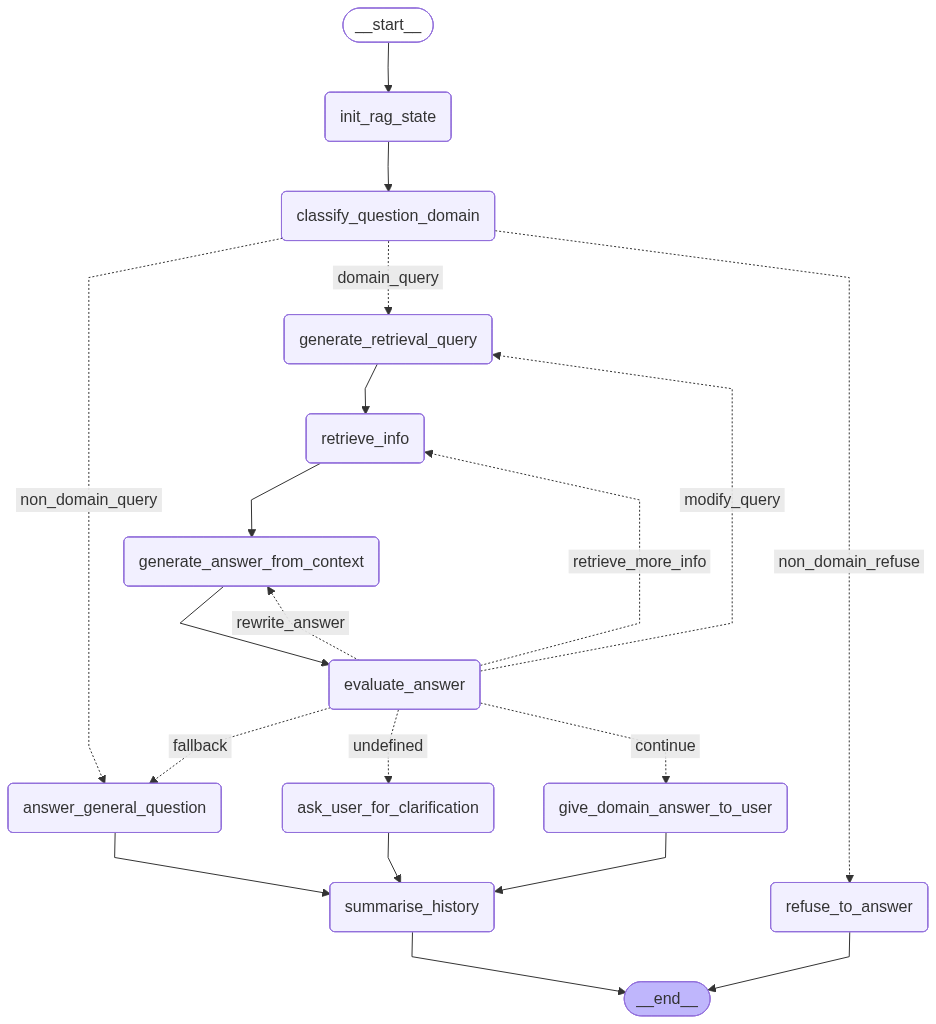
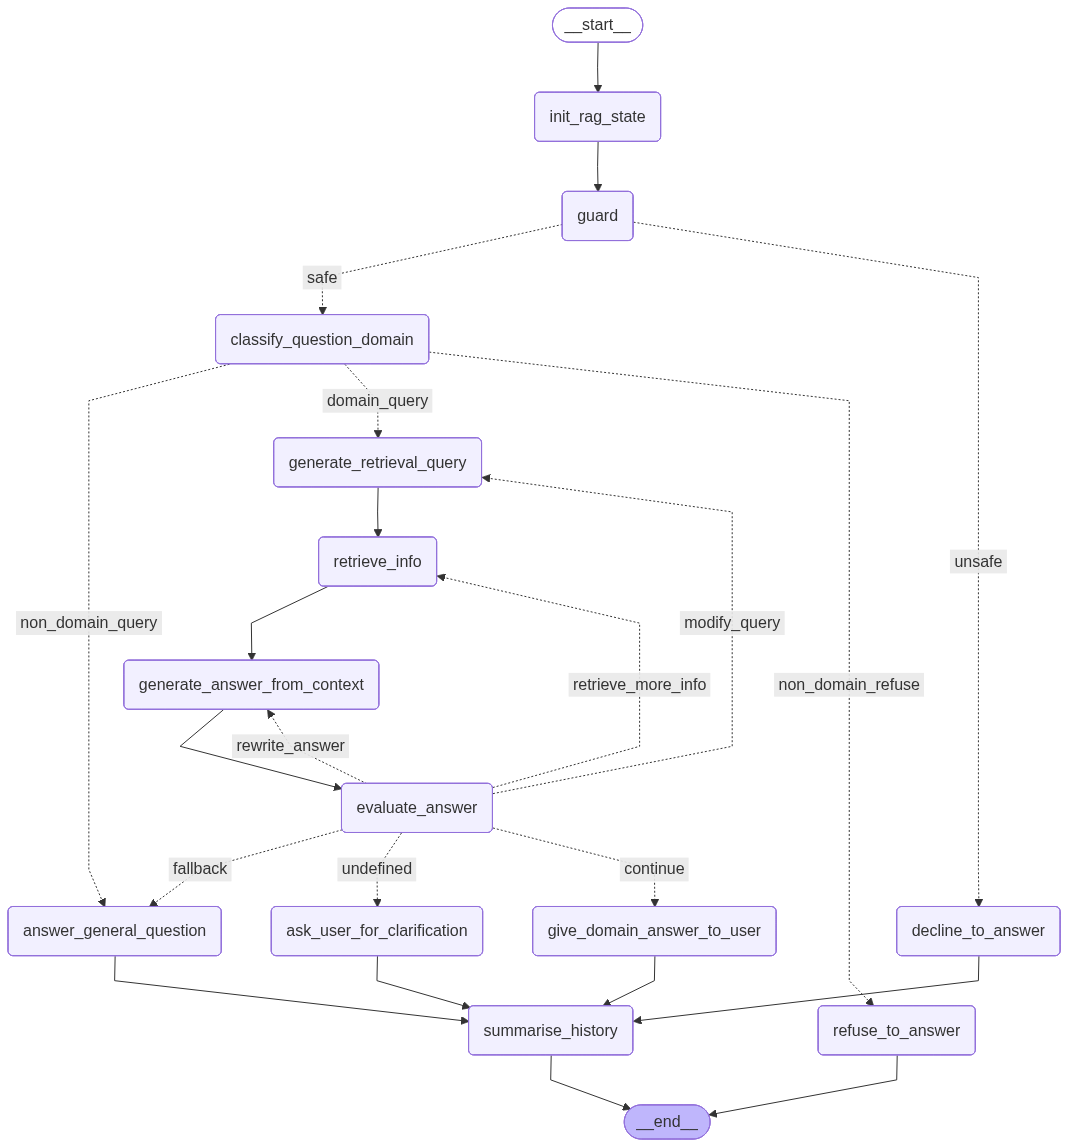
fix(guard): correct state update

diff --git a/utils_pkg/neuroml_ai_utils/nodes/guard.py b/utils_pkg/neuroml_ai_utils/nodes/guard.py
@@ -11,6 +11,7 @@ Author: Ankur Sinha <sanjay DOT ankur AT gmail DOT com>
 import logging
 from typing import Any, Dict, override
 
+from langchain_core.messages import AIMessage
 from pydantic import BaseModel
 
 from .base import BaseLLMNode
@@ -53,11 +54,11 @@ class GuardNode(BaseLLMNode):
         return {"query": state.query}  # type: ignore
 
     @override
-    def _update_state(self, result: str, state: BaseModel) -> Dict[str, Any]:
+    def _update_state(self, result: AIMessage, state: BaseModel) -> Dict[str, Any]:
         """Check result for safety and return routing decision."""
         self.logger.debug(f"{result = }")
 
-        if "unsafe" in result:
+        if "unsafe" in result.content:
             return {"guard_decision": "unsafe"}
         return {"guard_decision": "safe"}
 